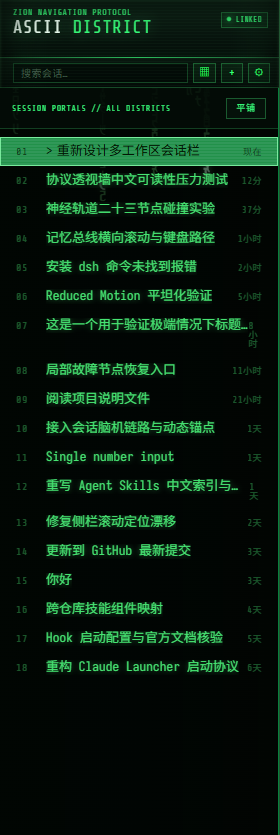
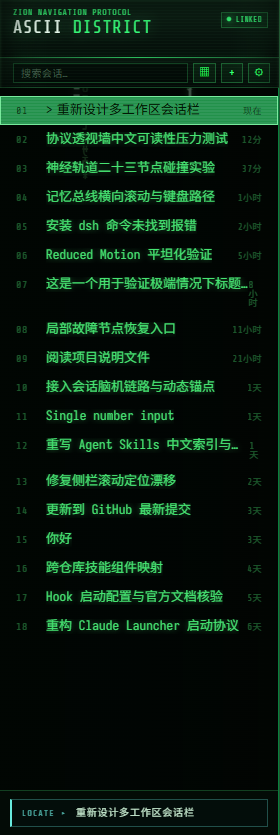
demo(sidebar): 删 map-stylebar,索引选会话不跳相机,新增 LOCATE 按钮
- 删除 map-stylebar(分组/平铺切换入口随之移除;平铺仅余 ?mapstyle=flat 与视图选项单列表)
- 索引内点击会话只选中(navigate:false),索引保持打开
- map-body 底部新增 LOCATE 按钮:点击切城市相机到所选会话位置并关闭索引
- 行为断言通过(选中不关索引/LOCATE 关索引);七态截图重拍

diff --git a/ui-prototype/sidebar/sidebar-proto.html b/ui-prototype/sidebar/sidebar-proto.html
@@ -32,8 +32,13 @@
 
     【多余入口】(源原型有、清单没有;用户已裁决:全部保留)
       · 相机行走输入:W/S/A/D + 方向键 / 滚轮 / 空白拖拽
-      · City Index 家族:CITY INDEX 按钮、M/Esc、分组/平铺切换、BAY 章标题
+      · City Index 家族:CITY INDEX 按钮、M/Esc、BAY 章标题
       · 右缘拖拽调宽 280–420px
+
+    【2026-08-28 迭代(用户指示)】
+      · map-stylebar 整栏删除(分组/平铺切换入口随之移除;平铺仅余 ?mapstyle=flat 与视图选项「单列表」)
+      · 索引内点击会话只选中、不再自动跳城市相机(navigate:false),索引保持打开
+      · map-body 底部新增 LOCATE 按钮:点击把城市相机切到所选会话位置并关闭索引
 
     调试参数(沿用源原型):?map=1 初始开索引 / ?mapstyle=flat 平铺 / ?z= 相机纵深 / ?w=280..420 侧栏宽度
   -->
@@ -173,7 +178,6 @@
     .frame-label,
     .frame-coordinate,
     .key,
-    .map-stylebar-kicker,
     .host-field,
     .map-toggle {
       font-family: var(--display);
@@ -634,40 +638,60 @@
       visibility: visible;
     }
 
-    .map-stylebar {
+    /* map-stylebar 已按用户指示删除(2026-08-28 迭代):
+       分组/平铺切换入口随之移除,视觉样式仅余 ?mapstyle=flat 调试参数与视图选项「单列表」 */
+
+    /* 底部 LOCATE 行:点击把城市相机切到所选会话位置并关闭索引 */
+    .map-foot {
       position: relative;
       z-index: 1;
       flex: 0 0 auto;
-      display: flex;
-      align-items: center;
-      justify-content: space-between;
-      gap: 8px;
-      padding: 10px 12px 9px;
-      border-bottom: 1px solid rgba(77, 255, 131, 0.21);
+      padding: 8px 10px;
+      border-top: 1px solid rgba(77, 255, 131, 0.21);
       background: rgba(3, 12, 7, 0.92);
     }
 
-    .map-stylebar-kicker {
-      color: var(--matrix);
-      font-size: 8px;
-      line-height: 1;
-    }
-
-    .map-style-toggle {
-      padding: 5px 9px;
-      border: 1px solid rgba(77, 255, 131, 0.3);
-      color: var(--matrix);
-      background: rgba(5, 22, 11, 0.7);
+    .map-locate {
+      width: 100%;
+      padding: 7px 10px;
+      display: flex;
+      align-items: baseline;
+      gap: 8px;
+      border: 1px solid rgba(104, 233, 221, 0.3);
+      border-left: 2px solid var(--cyan);
+      color: var(--cyan);
+      background: rgba(2, 14, 12, 0.78);
       cursor: pointer;
-      font: 9px/1 var(--body);
-      letter-spacing: 0.1em;
+      font: 10px/1.2 var(--body);
+      letter-spacing: 0.08em;
+      text-align: left;
     }
 
-    .map-style-toggle:hover,
-    .map-style-toggle:focus-visible {
+    .map-locate .k {
+      flex: 0 0 auto;
+      font: 8px/1 var(--display);
+      letter-spacing: 0.14em;
+      opacity: 0.75;
+    }
+
+    .map-locate .t {
+      min-width: 0;
+      overflow: hidden;
+      white-space: nowrap;
+      text-overflow: ellipsis;
+      color: #c4e8cd;
+    }
+
+    .map-locate:hover,
+    .map-locate:focus-visible {
       outline: none;
-      border-color: var(--matrix);
-      color: #fff;
+      border-color: var(--cyan);
+      box-shadow: 0 0 10px rgba(104, 233, 221, 0.2);
+    }
+
+    .map-locate:hover .t,
+    .map-locate:focus-visible .t {
+      color: #e7fffc;
     }
 
     .map-body {
@@ -1292,11 +1316,14 @@
 
     <section class="city-map" id="city-map" aria-hidden="true" aria-label="全部工作区与会话索引">
       <canvas class="map-rain" id="map-rain" aria-hidden="true"></canvas>
-      <div class="map-stylebar">
-        <span class="map-stylebar-kicker" id="map-stylebar-kicker">SCENE SELECTIONS // 4 DISTRICTS</span>
-        <button class="map-style-toggle" type="button" id="map-style-toggle" aria-label="切换列表样式:按工作区分组或平铺">分组</button>
-      </div>
       <div class="map-body grouped" id="map-body" role="tree"></div>
+      <!-- 2026-08-28 迭代:map-stylebar 删除;索引内点会话只选中不跳相机,
+           由底部 LOCATE 按钮显式切到所选会话的城市位置 -->
+      <div class="map-foot">
+        <button class="map-locate" id="map-locate" type="button" aria-label="前往所选会话的城市位置">
+          <span class="k">LOCATE ▸</span><span class="t"></span>
+        </button>
+      </div>
     </section>
 
     <!-- 迁移补齐 ⑤:行 ⋯ 菜单弹层(fixed,全局单例) -->
@@ -1413,9 +1440,8 @@
     const mapPanel = document.querySelector("#city-map");
     const mapToggle = document.querySelector("#map-toggle");
     const mapKeyHint = document.querySelector("#map-key-hint");
-    const mapStyleToggle = document.querySelector("#map-style-toggle");
-    const mapStylebarKicker = document.querySelector("#map-stylebar-kicker");
     const mapBody = document.querySelector("#map-body");
+    const locateBtn = document.querySelector("#map-locate");
     const searchInput = document.querySelector("#tb-search");
     const viewBtn = document.querySelector("#tb-view");
     const viewPop = document.querySelector("#tb-view-pop");
@@ -2117,7 +2143,7 @@
       rebuildSessionPortals();
     }
 
-    function selectSession(wsId, sessionId) {
+    function selectSession(wsId, sessionId, { navigate = true } = {}) {
       const workspaceIndex = WORKSPACES.findIndex((w) => w.id === wsId);
       if (workspaceIndex < 0) return;
       const workspace = WORKSPACES[workspaceIndex];
@@ -2126,10 +2152,19 @@
       if (!found) return;
       state.selectedWsId = wsId;
       state.selectedSessionId = sessionId;
-      if (state.activeWorkspace !== workspaceIndex) navigateToWorkspace(workspaceIndex);
+      // 2026-08-28 迭代:索引内选会话不再自动跳相机(navigate:false),由 LOCATE 按钮显式跳转
+      if (navigate && state.activeWorkspace !== workspaceIndex) navigateToWorkspace(workspaceIndex);
       rebuildSessionPortals();
       updateMapSelection();
     }
+
+    // LOCATE:把城市相机切到所选会话位置并关闭索引
+    locateBtn.addEventListener("click", () => {
+      const index = WORKSPACES.findIndex((w) => w.id === state.selectedWsId);
+      if (index < 0) return;
+      navigateToWorkspace(index);
+      closeMap();
+    });
 
     // 数据变更(新建/归档/分叉/重命名/拖拽)后的统一重建:点云 + Portal + 索引 + 计数
     function regenCity() {
@@ -2219,9 +2254,8 @@
       age.textContent = session.time;
       button.append(cursor, title, age);
       button.addEventListener("click", () => {
-        selectSession(workspace.id, session.id);
-        navigateToWorkspace(WORKSPACES.indexOf(workspace));
-        closeMap();
+        // 2026-08-28 迭代:索引内点会话只选中(索引保持打开),不自动跳城市视图
+        selectSession(workspace.id, session.id, { navigate: false });
       });
       row.append(button);
 
@@ -2269,14 +2303,10 @@
 
     function buildMap() {
       mapBody.replaceChildren();
-      // 视图选项「单列表」强制平铺视觉;「按工作区」跟随 mapStyle 分组/平铺开关
+      // 视图选项「单列表」强制平铺视觉;「按工作区」跟随 mapStyle(?mapstyle=flat 调试参数)
       const flat = state.view.groupBy === "flat" || state.mapStyle === "flat";
       mapBody.classList.toggle("grouped", !flat);
       mapBody.classList.toggle("flat", flat);
-      mapStylebarKicker.textContent = flat
-        ? "SESSION PORTALS // ALL DISTRICTS"
-        : `SCENE SELECTIONS // ${WORKSPACES.length} DISTRICTS`;
-      mapStyleToggle.textContent = state.mapStyle === "grouped" ? "分组" : "平铺";
 
       let itemNo = 0;
       let anyRow = false;
@@ -2376,6 +2406,9 @@
         button.classList.toggle("is-current", isCurrent);
         button.setAttribute("aria-current", isCurrent ? "page" : "false");
       });
+      // LOCATE 按钮跟随所选会话
+      const { session } = findSession(state.selectedWsId, state.selectedSessionId);
+      locateBtn.querySelector(".t").textContent = session ? session.title : "";
     }
 
     // ── 行 ⋯ 菜单(全局单例 fixed 弹层)──
@@ -2552,7 +2585,7 @@
         current.scrollIntoView({ block: "center" });
         current.focus({ preventScroll: true });
       } else {
-        mapStyleToggle.focus();
+        locateBtn.focus();
       }
     }
 
@@ -2749,11 +2782,6 @@
     });
 
     mapToggle.addEventListener("click", toggleMap);
-    mapStyleToggle.addEventListener("click", () => {
-      state.mapStyle = state.mapStyle === "grouped" ? "flat" : "grouped";
-      if (state.mapStyle === "grouped") state.view.groupBy = "workspace"; // 样式切回分组时视图选项同步
-      buildMap();
-    });
     document.addEventListener("keydown", handleKeydown);
 
     const observer = new ResizeObserver(resizeCanvas);
